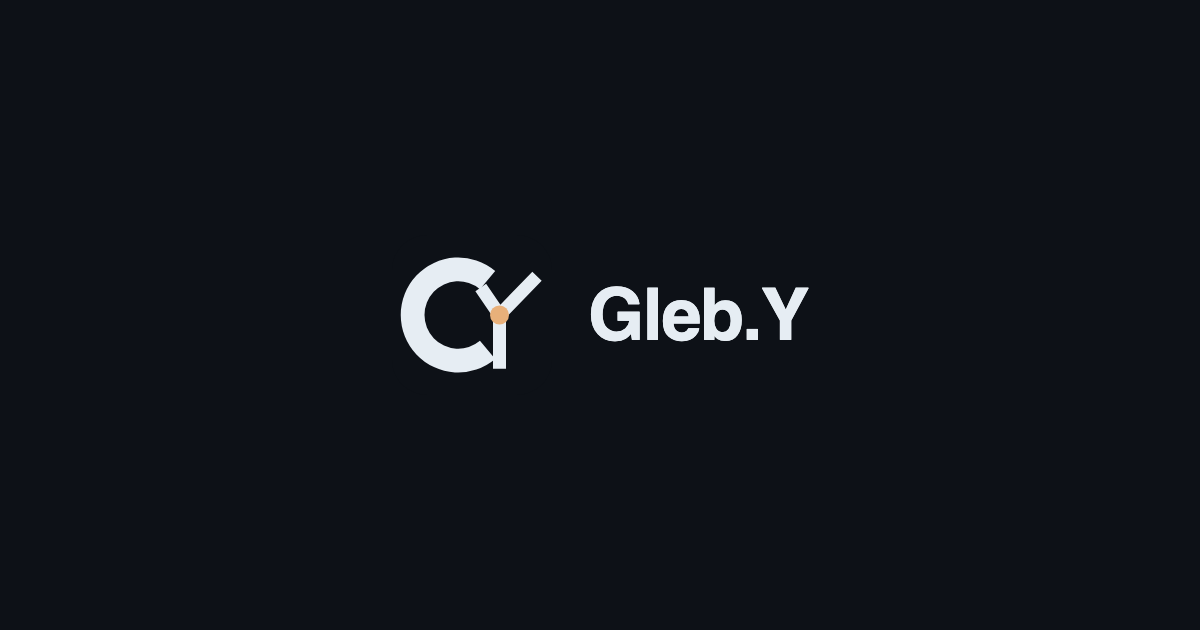
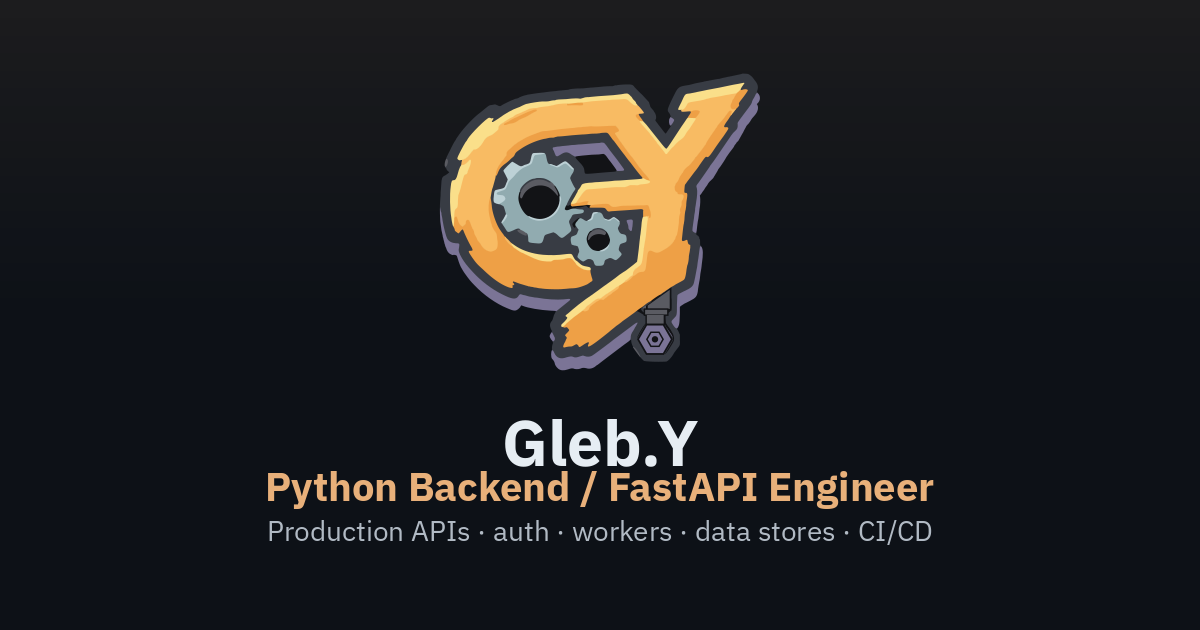
feat(brand): show hero wordmark and refresh OG social card
Restore visible Gleb.Y under the hero logo with accent-gradient typography
while keeping the logo decorative and the name in the h1 for SEO/a11y.

Regenerate social-preview.png (1200×630) with the new GY logo, dark charcoal
background, and Python Backend / FastAPI Engineer positioning.

Changed region(s): [[0.3083, 0.1206, 0.6783, 0.6032], [0.2158, 0.6635, 0.7708, 0.8746]]

diff --git a/client/src/components/resume/HeroBlock.vue b/client/src/components/resume/HeroBlock.vue
@@ -70,7 +70,7 @@ function printPage(): void {
         variant="full"
         class-name="h-16 w-auto max-w-[min(100%,18rem)] sm:h-20 md:h-24"
       />
-      <span class="sr-only">{{ name }}</span>
+      <span class="text-xl font-bold tracking-tight sm:text-2xl accent-gradient">{{ name }}</span>
     </h1>
     <p class="text-2xl md:text-3xl text-surface-light mb-2">{{ title }}</p>
     <p v-if="tagline" class="text-lg text-surface-sage mb-3 text-pretty max-w-2xl mx-auto">

diff --git a/client/src/components/resume/HeroBlock.test.ts b/client/src/components/resume/HeroBlock.test.ts
@@ -31,7 +31,9 @@ describe("HeroBlock", () => {
       },
     });
 
+    expect(wrapper.text()).toContain("Gleb.Y");
     expect(wrapper.text()).toContain("I build production APIs");
+    expect(wrapper.find("h1 .sr-only").exists()).toBe(false);
     expect(wrapper.text()).not.toContain("Backend-first");
     expect(wrapper.find(".contact-link-chip").exists()).toBe(false);
     expect(wrapper.text()).not.toContain("email");

diff --git a/client/design/logo/README.md b/client/design/logo/README.md
@@ -6,7 +6,7 @@ Commissioned graffiti sticker-badge **GY** monogram (gears + wrench). Source fil
 
 - App chrome: [`SiteLogo.vue`](../../src/components/brand/SiteLogo.vue) (nav + footer + hero) — `/brand/gy-mark-simple.svg` or `/brand/gy-logo.svg`
 - Favicon / touch icons: [`client/public/favicon.svg`](../../public/favicon.svg) and PNG/ICO siblings
-- Social card: [`client/public/social-preview.png`](../../public/social-preview.png) (type-only OG until refreshed)
+- Social card: [`client/public/social-preview.png`](../../public/social-preview.png)
 
 ## Source files (`logo/vector/`)
 
